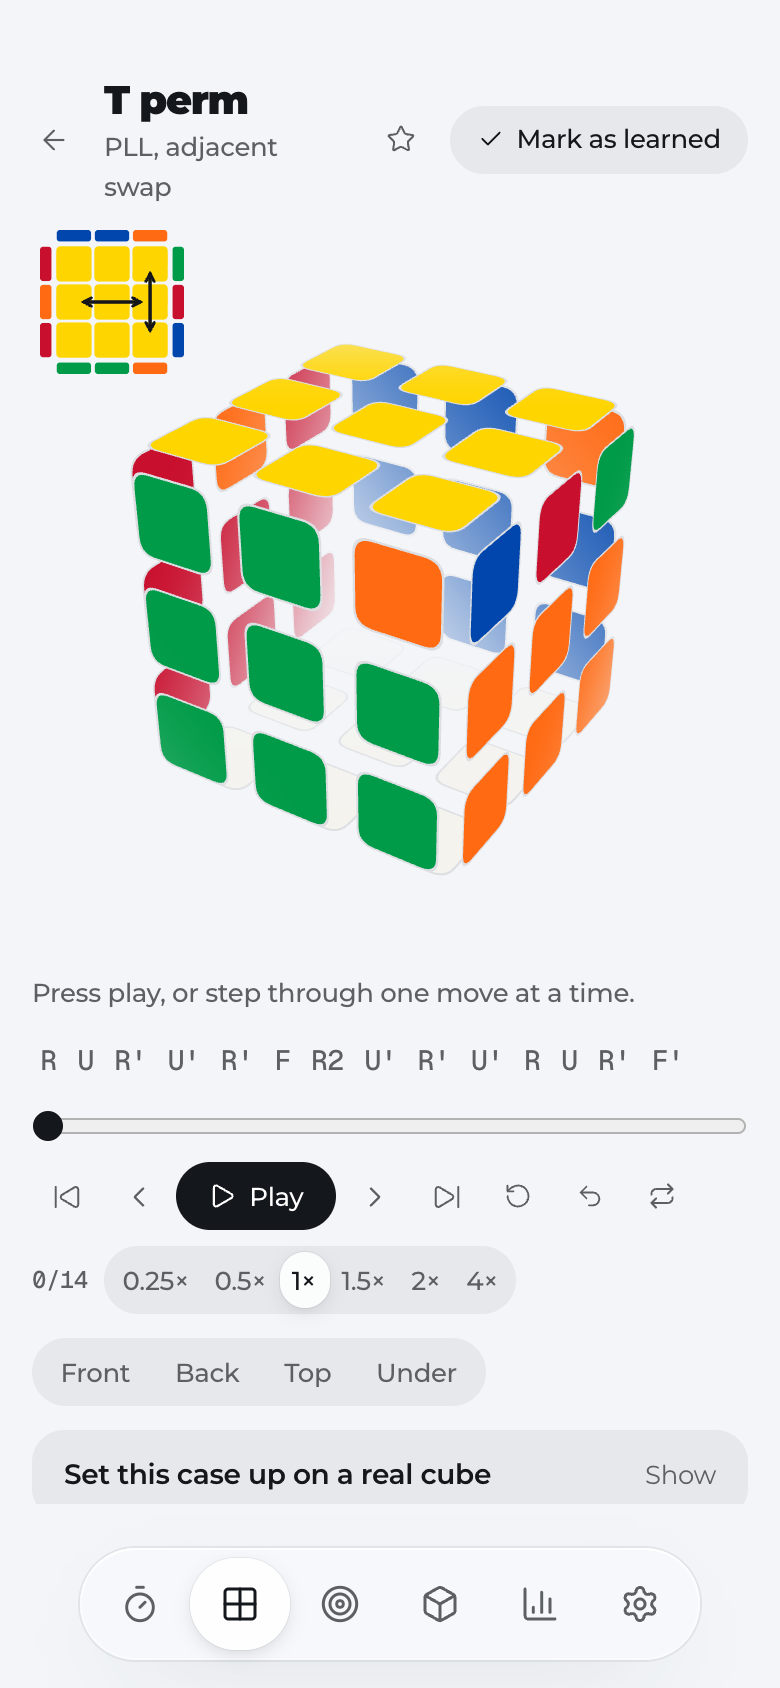
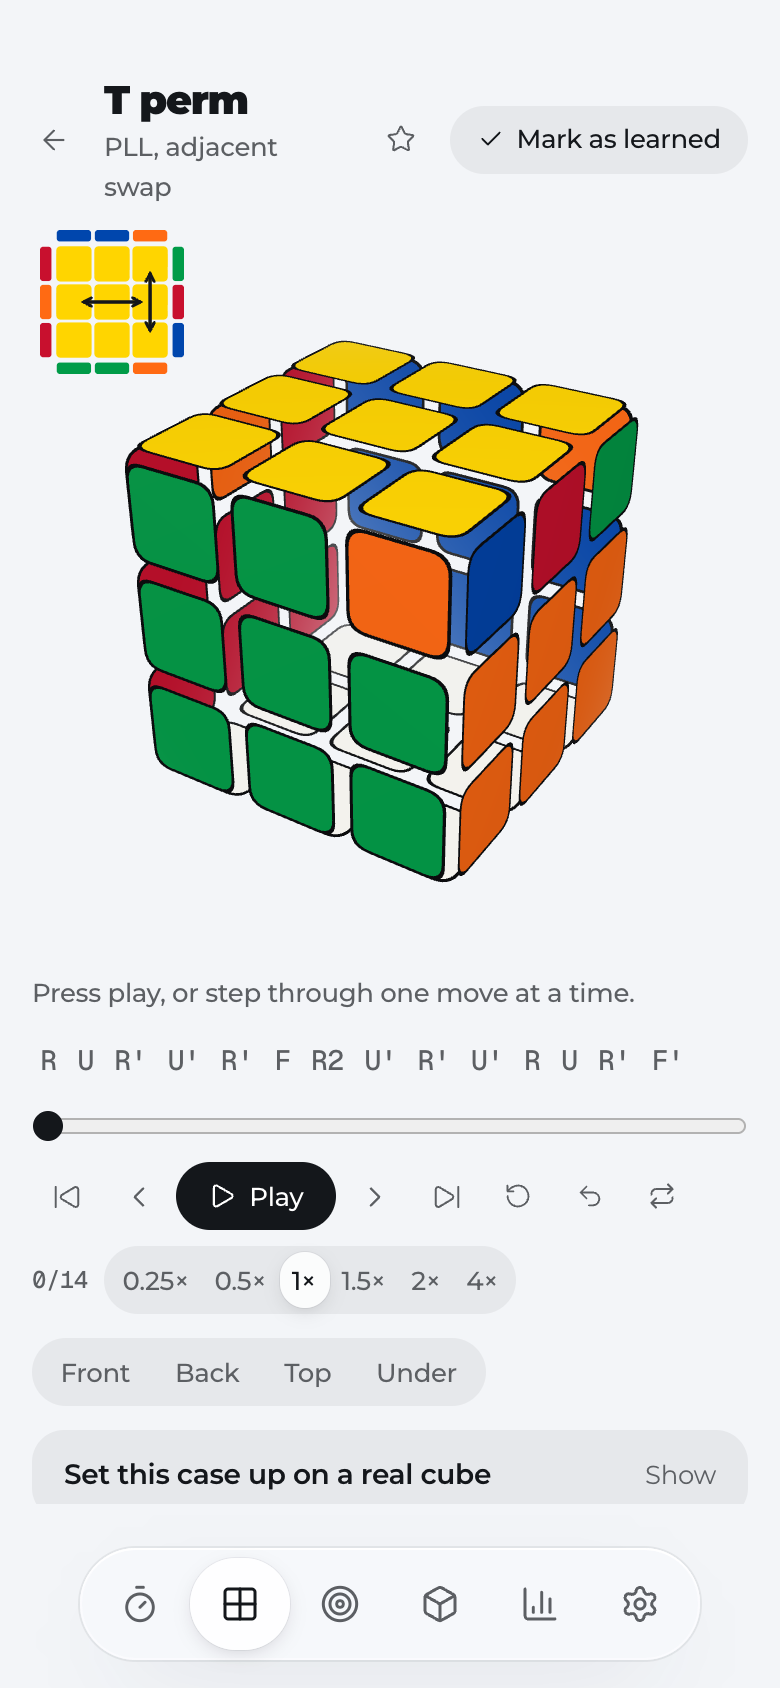
Refine the see-through cube: bigger tiles, black outlines, clearer back, light gloss

Changed region(s): [[0.1538, 0.1848, 0.8308, 0.5237]]

diff --git a/src/cube/CubeScene.jsx b/src/cube/CubeScene.jsx
@@ -96,8 +96,8 @@ function DepthFade({ color }) {
   useFrame(({ camera }) => {
     if (!scene.fog) return;
     const d = camera.position.length();
-    scene.fog.near = d - 0.6;
-    scene.fog.far = d + 3.1;
+    scene.fog.near = d - 0.2;
+    scene.fog.far = d + 6;
   });
   return null;
 }
@@ -113,12 +113,9 @@ function usePageColors(environment, dark) {
   return useMemo(() => {
     const css = getComputedStyle(document.documentElement);
     const paper = css.getPropertyValue('--paper').trim() || '#f3f5f8';
-    const ink = css.getPropertyValue('--ink').trim() || '#14171b';
     const background = environment === 'dark' ? '#17181a' : environment === 'light' ? '#f7f6f2' : paper;
-    const backgroundIsDark = environment === 'dark' || (environment !== 'light' && dark);
-    // A quiet outline: darker than the page in light themes, lighter in dark ones.
-    const rim = new THREE.Color(background).lerp(new THREE.Color(backgroundIsDark ? '#ffffff' : ink), backgroundIsDark ? 0.18 : 0.2);
-    return { background, rim: `#${rim.getHexString()}` };
+    // Tiles are outlined in black, like the plastic around a sticker.
+    return { background, rim: '#0b0c0e' };
   }, [environment, dark, version]); // eslint-disable-line react-hooks/exhaustive-deps
 }
 
@@ -192,7 +189,8 @@ export const CubeScene = forwardRef(function CubeScene({ controller, interactive
             }}
             style={{ position: 'absolute', inset: 0, touchAction: 'none' }}
           >
-            {seeThrough ? <DepthFade color={page.background} /> : <Lighting dark={dark} />}
+            {seeThrough ? <DepthFade color={page.background} /> : null}
+            <Lighting dark={dark} />
             <CubeRenderer
               controller={controller}
               colors={colors}

diff --git a/src/cube/CubeRenderer.jsx b/src/cube/CubeRenderer.jsx
@@ -28,7 +28,7 @@ function roundedSquareShape(size, radius) {
 function stickerGeometry(style, scale = 1) {
   if (style === 'seethrough') {
     // Flat tiles with wide gaps, so the far side of the cube shows between them.
-    const geometry = new THREE.ShapeGeometry(roundedSquareShape(0.7 * scale, 0.14 * scale), 6);
+    const geometry = new THREE.ShapeGeometry(roundedSquareShape(0.8 * scale, 0.15 * scale), 6);
     return geometry;
   }
   const stickerless = style === 'stickerless';
@@ -101,7 +101,7 @@ export function CubeRenderer({ controller, colors, style = 'seethrough', bodyCol
   const geometries = useMemo(
     () => ({
       sticker: stickerGeometry(style),
-      rim: stickerGeometry('seethrough', 1.055),
+      rim: stickerGeometry('seethrough', 1.07),
       body: new RoundedBoxGeometry(CUBIE, CUBIE, CUBIE, 3, 0.075),
     }),
     [style],
@@ -253,7 +253,8 @@ export function CubeRenderer({ controller, colors, style = 'seethrough', bodyCol
             <meshBasicMaterial color={rimColor} side={THREE.DoubleSide} />
           </instancedMesh>
           <instancedMesh ref={stickerMesh} args={[geometries.sticker, undefined, model.count]} frustumCulled={false} onPointerDown={onStickerDown}>
-            <meshBasicMaterial side={THREE.DoubleSide} polygonOffset polygonOffsetFactor={-1} polygonOffsetUnits={-1} />
+            {/* A light clearcoat sheen, kept subtle so the colors stay true. */}
+            <meshPhysicalMaterial side={THREE.DoubleSide} roughness={0.38} metalness={0} clearcoat={0.7} clearcoatRoughness={0.16} envMapIntensity={0.7} polygonOffset polygonOffsetFactor={-1} polygonOffsetUnits={-1} />
           </instancedMesh>
         </>
       ) : (
